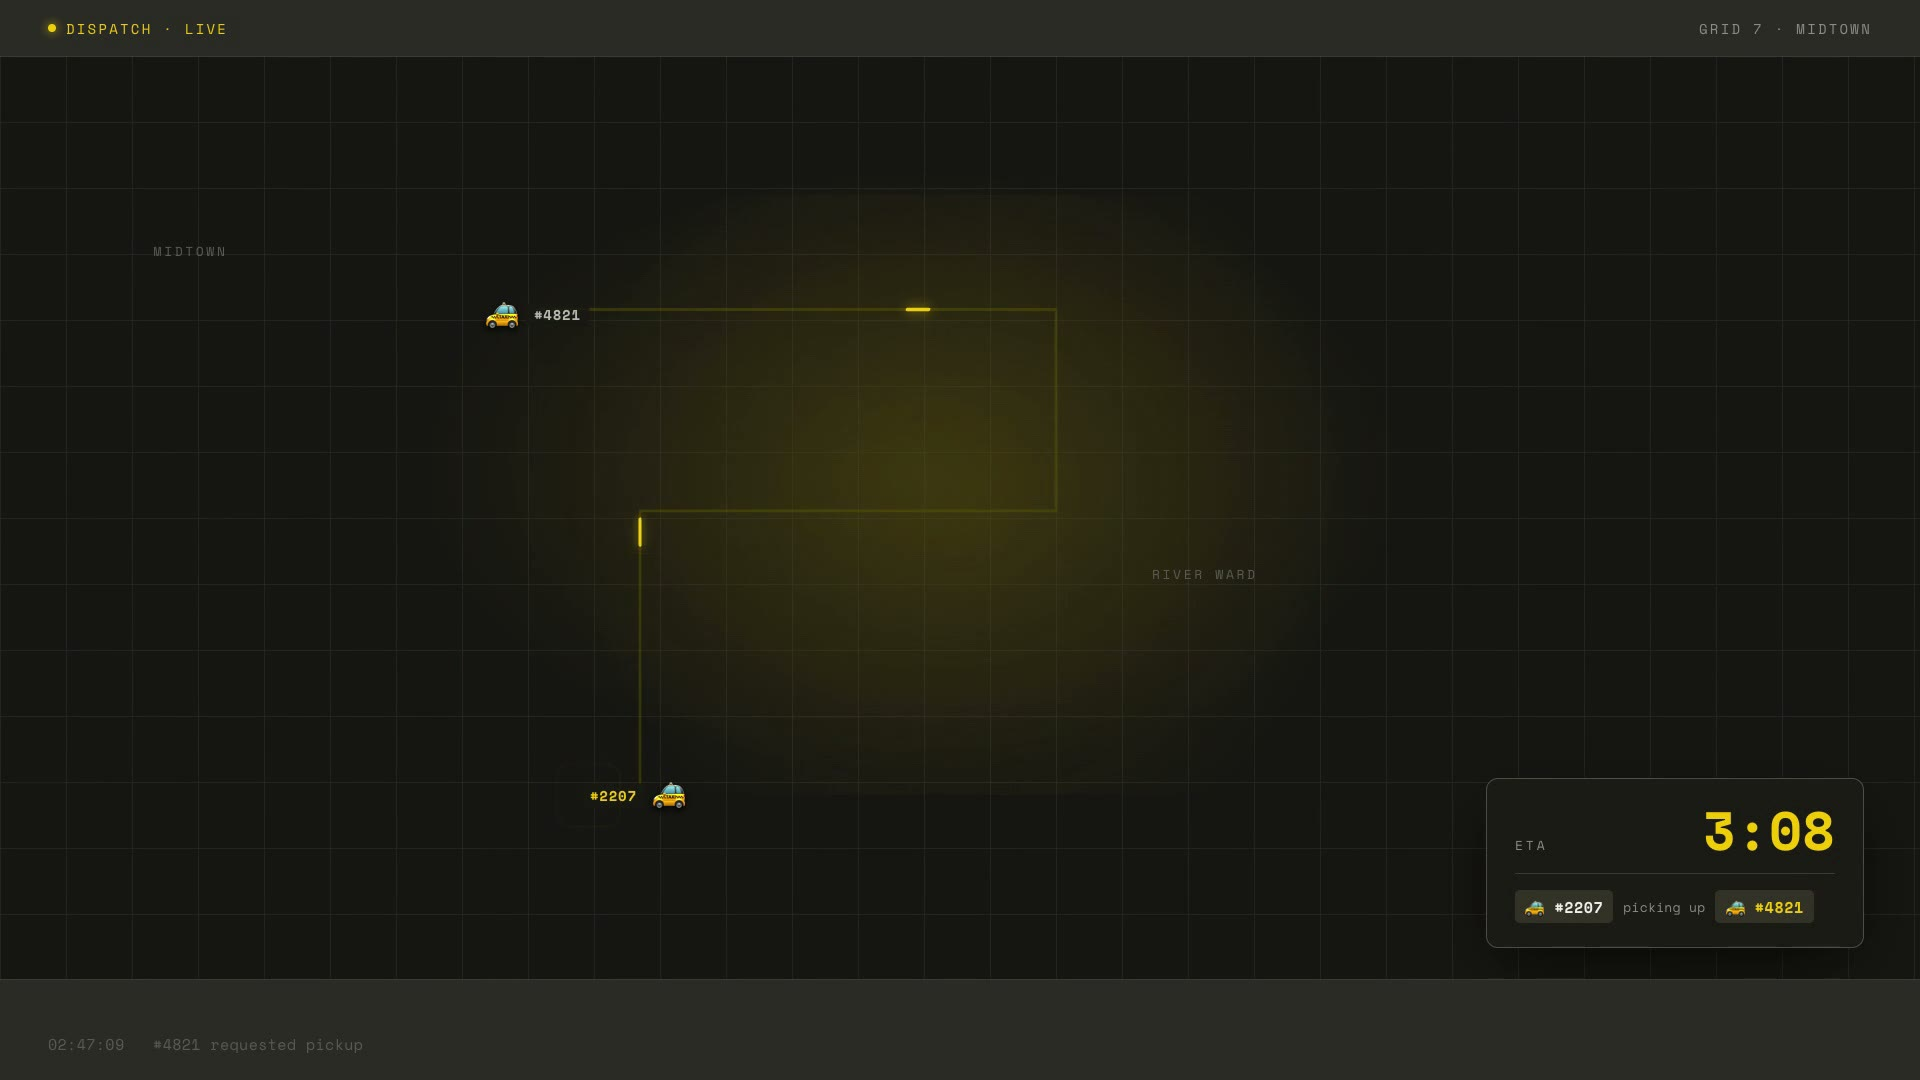
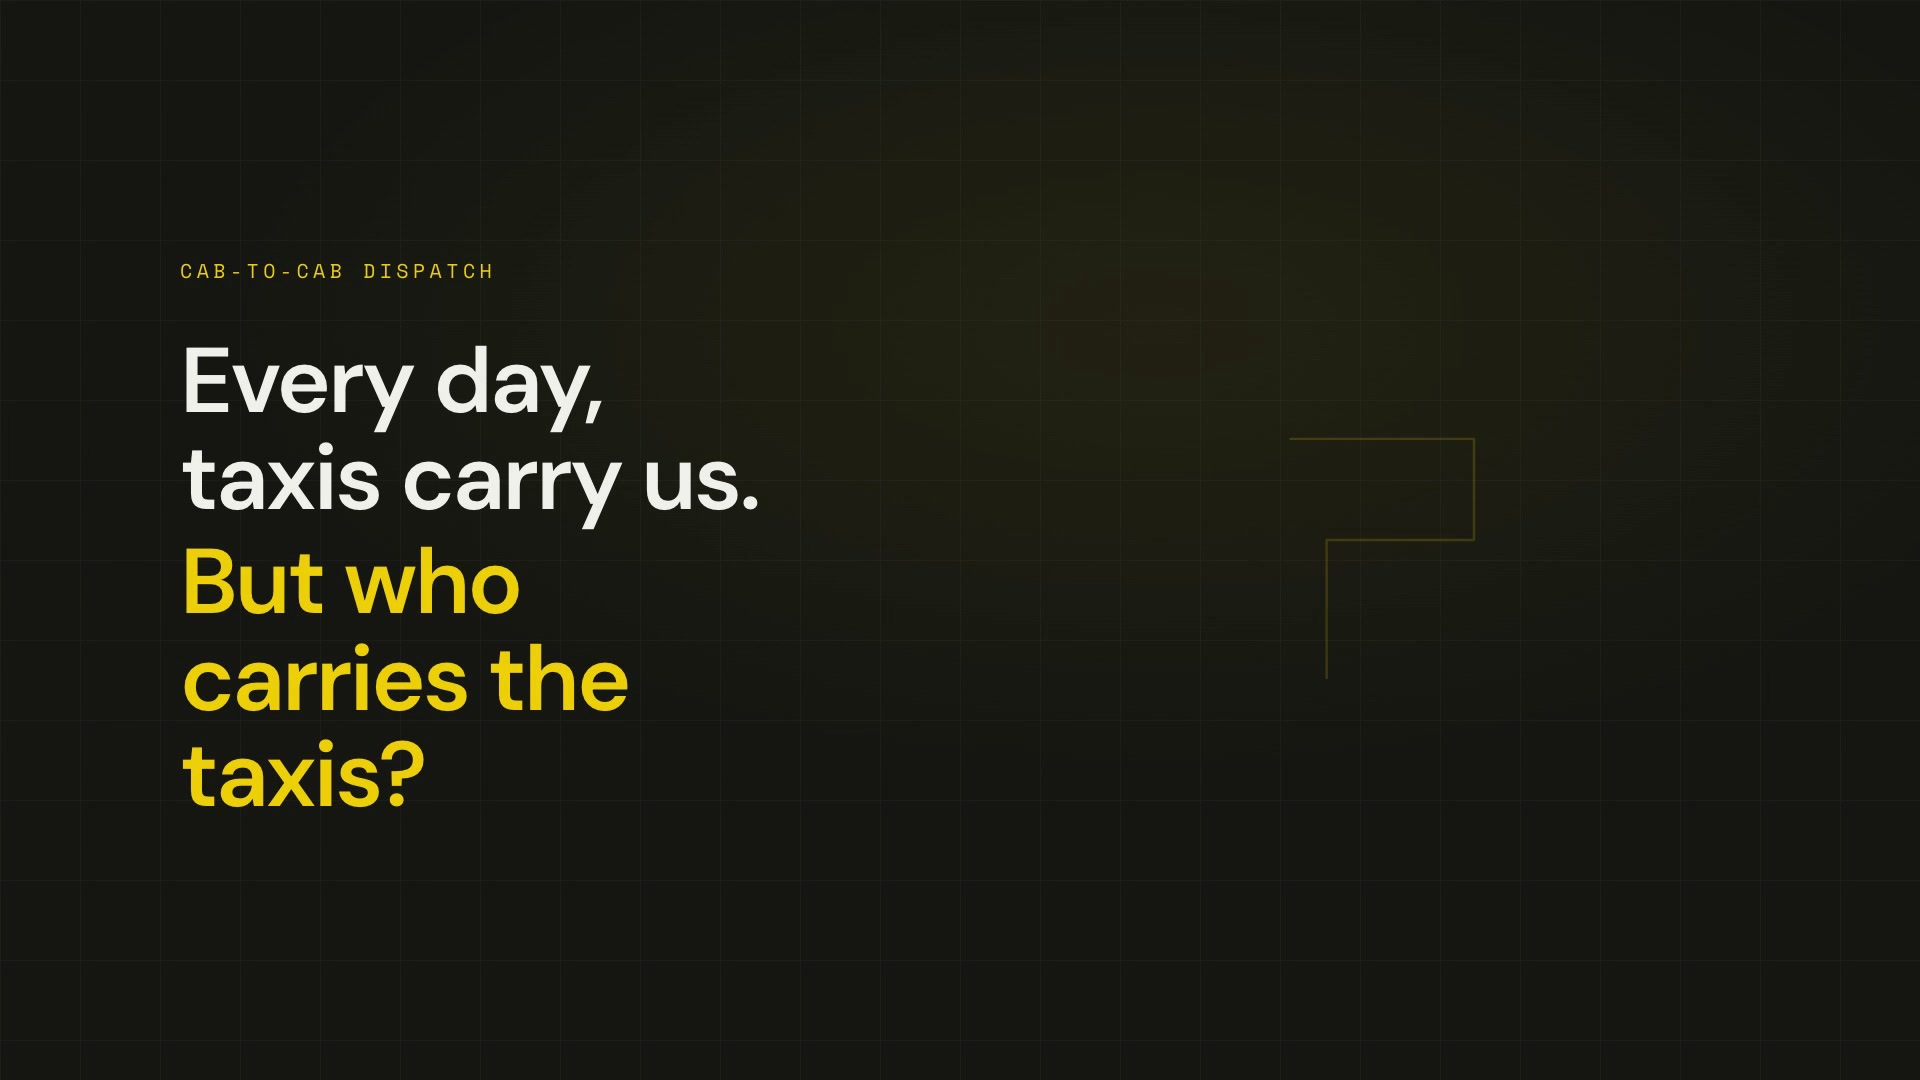
Pick brag poster from the best beat, not an arbitrary frame
/brag delivery now chooses the poster (brag.jpg) from the composition's
strongest settled moment — the hook, hero reveal, or logo — extracted
full-res with a single ffmpeg -ss command, instead of leaving it to a
random frame that lands on a fade or mid-transition.

- step-4-deliver.md: new "Pick the poster frame" step + brag.jpg in output
- SKILL.md: step-4 summary and gate require a best-frame poster
- docs/README.md: gallery workflow uses the same ffmpeg one-liner
- replace the taxi-for-taxis poster (empty dispatch map) with the
  "But who carries the taxis?" hook frame

diff --git a/skills/brag/references/step-4-deliver.md b/skills/brag/references/step-4-deliver.md
@@ -45,6 +45,19 @@ For final delivery:
 npx hyperframes render --quality high --output ../brag.mp4
 ```
 
+## Pick the poster frame
+
+The poster is the still shown before the video plays (a `<video>`'s `poster` image) — the first thing anyone sees. Don't leave it to the first frame or an arbitrary timestamp; those land on fades, mid-transitions, or half-rendered text.
+
+You built this composition, so you already know its strongest moment and exactly when it lands — the hook line, the hero reveal, or the final logo. Pick that beat at a **settled** point: text fully animated in, before it exits (the storyboard timings tell you the safe window). Then extract that one frame full-res with ffmpeg. From `brag-output/composition`:
+
+```bash
+# use the timestamp of your strongest settled beat, e.g. 3.2s
+ffmpeg -ss 3.2 -i ../brag.mp4 -frames:v 1 -q:v 2 ../brag.jpg
+```
+
+Aim for a frame that's postable on its own (the "show the thing" law — any frozen frame should be shareable). If the pulled frame lands on a transition or mid-animation, nudge the timestamp a few tenths of a second and re-extract. Wire the poster into any `<video>` that embeds the brag (the composition, a gallery card, the user's site) with `poster="brag.jpg"`.
+
 ## Write share copy
 
 Write `brag-output/share-copy.txt`.
@@ -123,6 +136,7 @@ After this step, `brag-output/` should contain:
 ```
 brag-output/
   brag.mp4                — the rendered video
+  brag.jpg                — the poster (best frame, for <video poster>)
   brag-plan.md            — the plan and storyboard
   composition-brief.md    — the Hyperframes handoff brief
   share-copy.txt          — the share caption

diff --git a/docs/README.md b/docs/README.md
@@ -17,6 +17,10 @@ The gallery videos ship committed: each demo shown (`examples/horse-tinder/`, `e
 
 ## Adding / updating a gallery example
 
-1. Render the brag video and place `brag.mp4`, `brag.jpg` (poster), and `site.jpg` (thumbnail) under `examples/<slug>/`, next to the demo's `index.html` and `styles.css`.
+1. Render the brag video and place `brag.mp4`, `brag.jpg` (poster), and `site.jpg` (thumbnail) under `examples/<slug>/`, next to the demo's `index.html` and `styles.css`. Pick `brag.jpg` as the **best** frame, not an arbitrary one — grab the video's strongest settled beat (the hook line, or the hero/logo reveal) full-res with ffmpeg:
+
+   ```bash
+   ffmpeg -ss 3.2 -i docs/examples/<slug>/brag.mp4 -frames:v 1 -q:v 2 docs/examples/<slug>/brag.jpg
+   ```
 2. Add a card in `index.html` pointing at those paths.
 3. Un-ignore the slug in `.gitignore` and commit the assets.

diff --git a/skills/brag/SKILL.md b/skills/brag/SKILL.md
@@ -101,9 +101,9 @@ Write the composition brief and use Hyperframes to create the video implementati
 
 **Read:** [references/step-4-deliver.md](references/step-4-deliver.md)
 
-Validate, preview, render to `<output-dir>/brag.mp4`, and write `<output-dir>/share-copy.txt`.
+Validate, preview, render to `<output-dir>/brag.mp4`, pick the best poster frame into `<output-dir>/brag.jpg`, and write `<output-dir>/share-copy.txt`.
 
-**Gate:** `<output-dir>/brag.mp4` exists. Share copy is written.
+**Gate:** `<output-dir>/brag.mp4` exists. A best-frame poster `<output-dir>/brag.jpg` is picked (not an arbitrary frame). Share copy is written.
 
 ---
 
